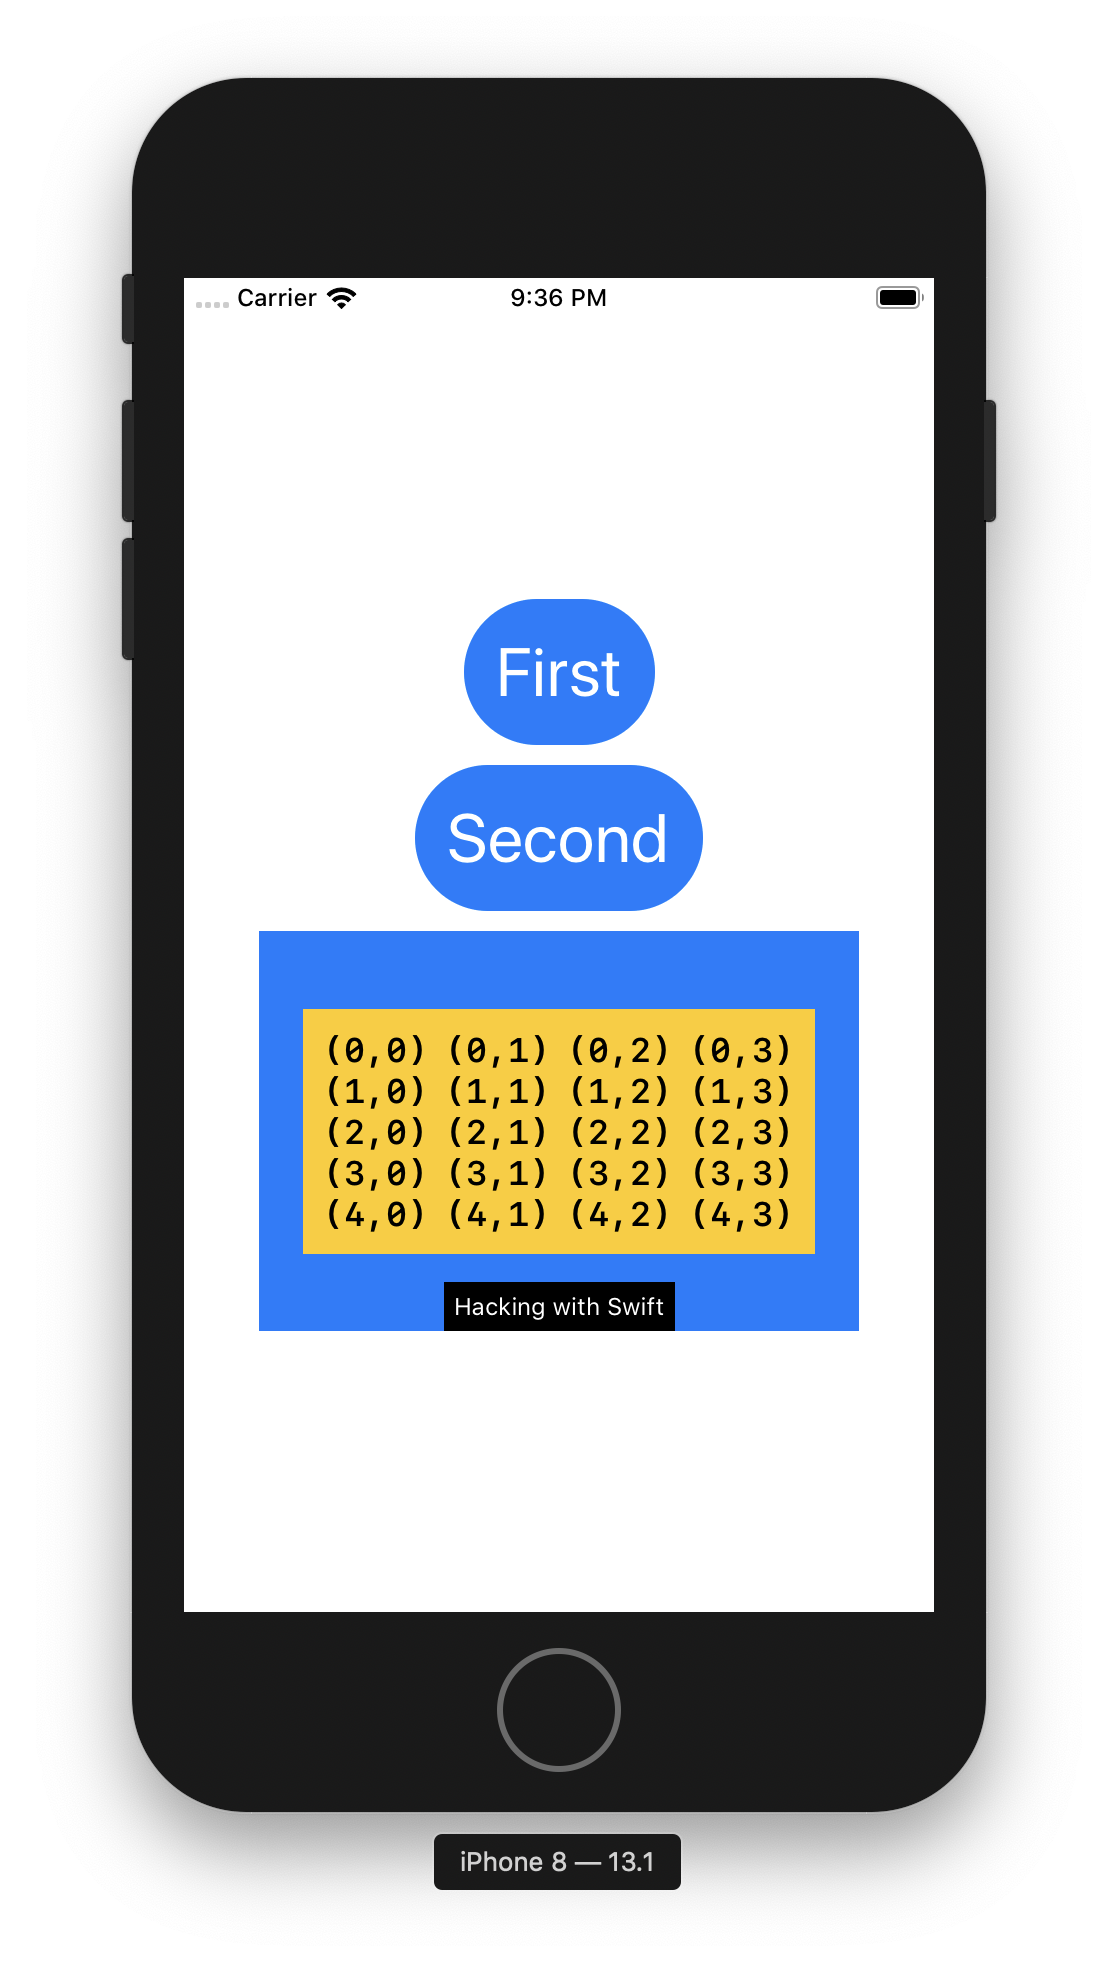
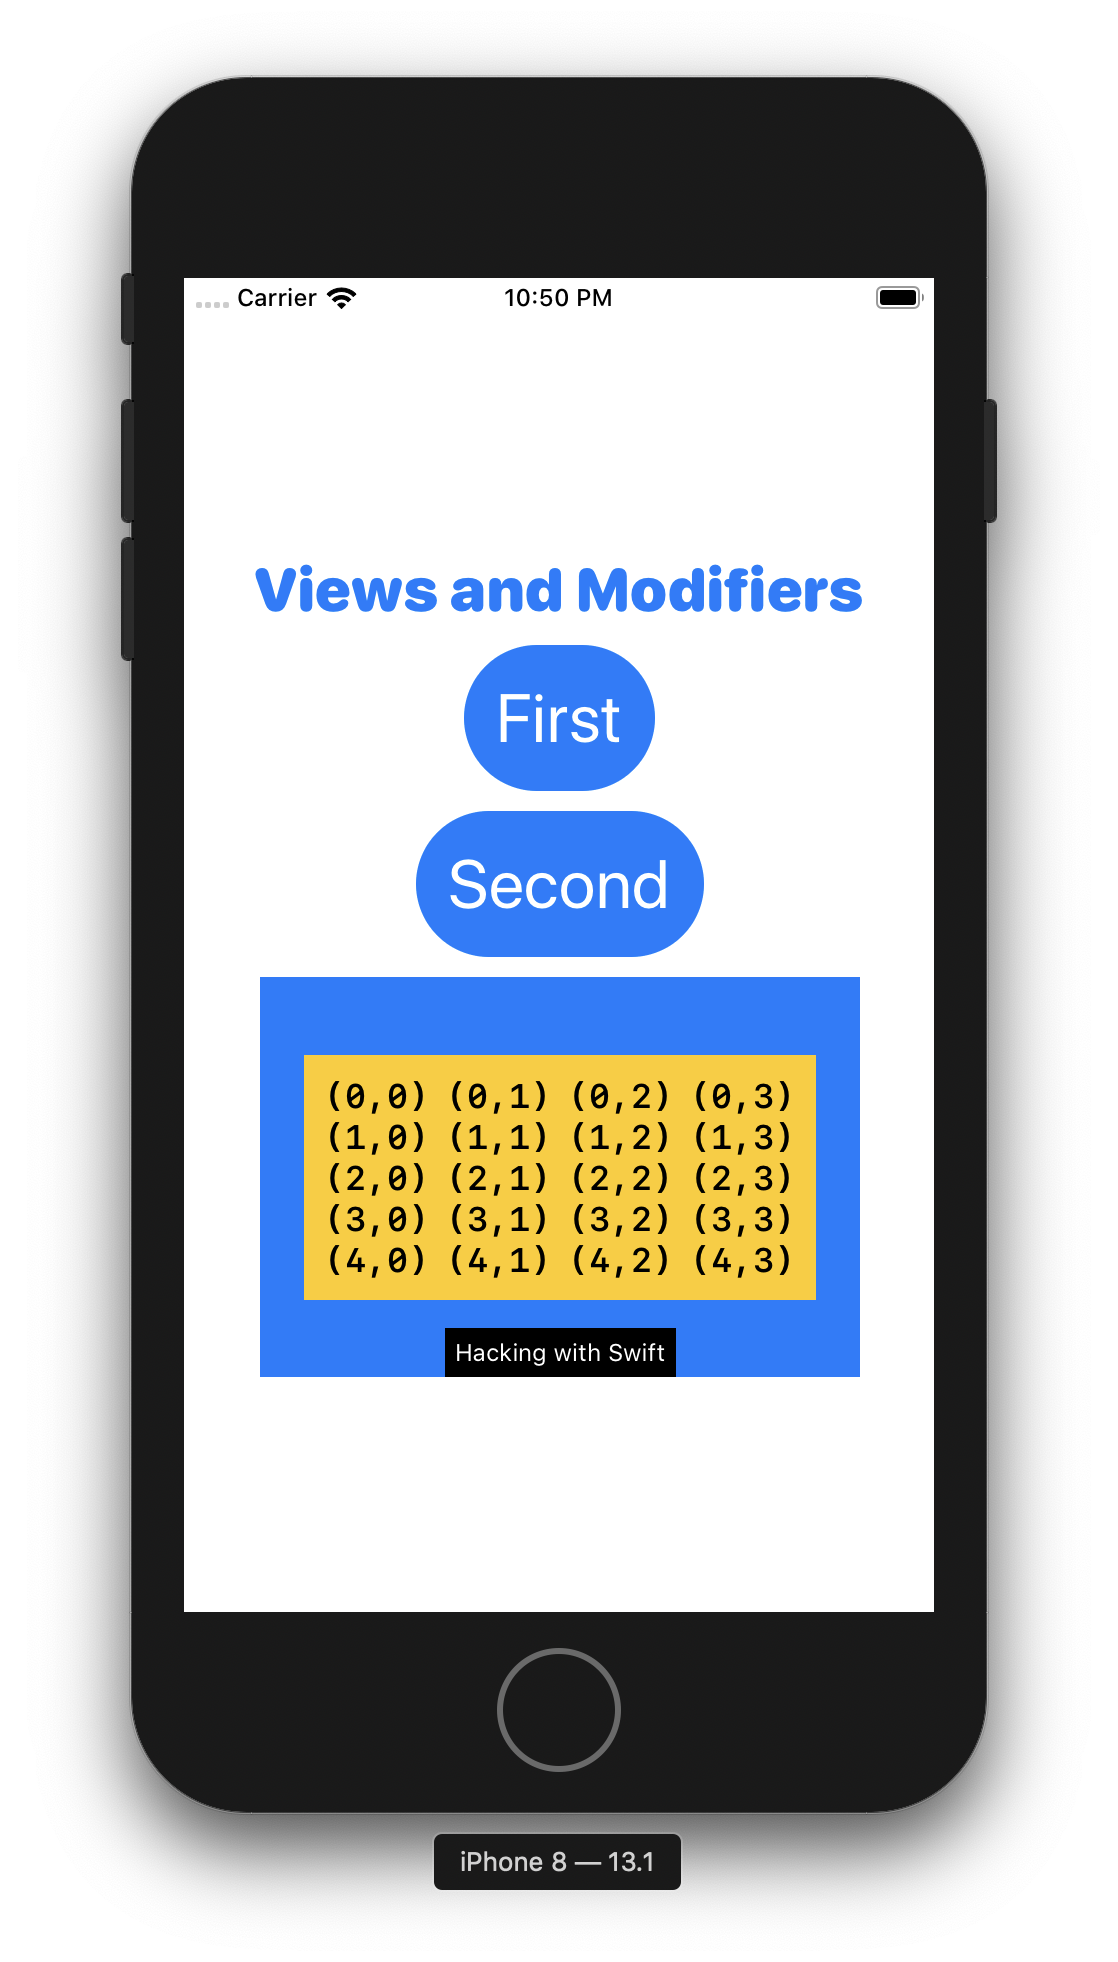
DAY-024: Add challenges for wrap-up day and update README files with solutions

Changed region(s): [[0.2129, 0.2798, 0.7907, 0.7151], [0.0912, 0.0933, 0.9123, 0.9638], [0.4562, 0.1244, 0.5474, 0.1555]]

diff --git a/GuessTheFlag/GuessTheFlag/ContentView.swift b/GuessTheFlag/GuessTheFlag/ContentView.swift
@@ -33,11 +33,7 @@ struct ContentView: View {
                     Button(action: {
                         self.flagTapped(number)
                     }, label: {
-                        Image(self.countries[number])
-                            .renderingMode(.original)
-                            .clipShape(Capsule())
-                            .overlay(Capsule().stroke(Color.black, lineWidth: 1))
-                            .shadow(color: .black, radius: 2)
+                        FlagImage(name: self.countries[number])
                     })
                 }
                 Spacer()
@@ -63,6 +59,18 @@ struct ContentView: View {
     func askQuestion() {
         countries.shuffle()
         correctAnswer = Int.random(in: 0...2)
+    }
+}
+
+struct FlagImage: View {
+    var name: String
+    
+    var body: some View {
+        Image(name)
+            .renderingMode(.original)
+            .clipShape(Capsule())
+            .overlay(Capsule().stroke(Color.primary, lineWidth: 1))
+            .shadow(color: .primary, radius: 2)
     }
 }
 

diff --git a/ViewsAndModifiers/ViewsAndModifiers/ContentView.swift b/ViewsAndModifiers/ViewsAndModifiers/ContentView.swift
@@ -12,6 +12,10 @@ struct ContentView: View {
     
     var body: some View {
         VStack(spacing: 10) {
+            
+            Text("Views and Modifiers")
+                .blueTitled()
+                
             CapsuleText(text: "First")
             CapsuleText(text: "Second")
             
@@ -68,6 +72,14 @@ struct Watermark: ViewModifier {
     }
 }
 
+struct BlueTitle: ViewModifier {
+    func body(content: Content) -> some View {
+        content
+            .font(.system(size: 30, weight: .black, design: .rounded))
+            .foregroundColor(.blue)
+    }
+}
+
 extension View {
     func titleStyle() -> some View {
         self.modifier(Title())
@@ -75,6 +87,10 @@ extension View {
     
     func watermarked(with text: String) -> some View {
         self.modifier(Watermark(text: text))
+    }
+    
+    func blueTitled() -> some View {
+        self.modifier(BlueTitle())
     }
 }
 

diff --git a/WeSplit/WeSplit/ContentView.swift b/WeSplit/WeSplit/ContentView.swift
@@ -62,6 +62,7 @@ struct ContentView: View {
                 
                 Section {
                     Text("$\(totalPerPerson, specifier: "%.2f")")
+                        .foregroundColor(tipPercentage == 4 ? .red : .primary)
                 }
             }
             .navigationBarTitle("WeSplit")

diff --git a/README.md b/README.md
@@ -1,49 +1,14 @@
 
 # 100DaysOfSwiftUI
 
-Repository made to follow 100 Days of SwiftUI.
+## Wrap-up challenge - Day 24
 
-## Days 1 - 12: Introduction to Swift
+1. Create a custom ViewModifier (and accompanying View extension) that makes a view have a large, blue font suitable for prominent titles in a view. Solution: [Views and Modifiers](ViewsAndModifiers).
 
-- [Day 1](Introduction/Day01): Simple types.
-- [Day 2](Introduction/Day02): Complex types.
-- [Day 3](Introduction/Day03): Operators and conditions.
-- [Day 4](Introduction/Day04): Loops.
-- [Day 5](Introduction/Day05): Functions.
-- Day 6: Closures, part one.
-- [Day 7](Introduction/Day07): Closures, part two.
-- Day 8: Structs, part one.
-- [Day 9](Introduction/Day09): Structs, part two.
-- [Day 10](Introduction/Day10): Classes.
-- [Day 11](Introduction/Day11): Protocols and extensions.
-- [Day 12](Introduction/Day12): Optionals, unwrapping and typecasting.
+2. Go back to [project 1](WeSplit) and use a conditional modifier to change the total amount text view to red if the user selects a 0% tip.
 
-## Days 13-15: Consolidation I
+3. Go back to [project 2](GuessTheFlag) and create a FlagImage() view that renders one flag image using the specific set of modifiers we had.
 
-- Day 13: Swift review, day one.
-- Day 14: Swift review, day two.
-- Day 15: Swift review, day three.
+## Solved challenge
 
-## Days 16-26: Starting SwiftUI
-
-- [Day 16](WeSplit): Project 1, part one.
-- [Day 17](WeSplit): Project 1, part two.
-- Day 18. Project 1, part three (**Wrap-up day**).
-- [Day 19](Challenges/Unit%20Converter). Challenge day #1.
-- [Day 20](GuessTheFlag). Project 2, part one.
-- Day 21. Project 2, part two.
-- Day 22. Project 2, part three (**Wrap-up day**).
-- [Day 23](ViewsAndModifiers). Project 3, part one.
-
-## Challenge days
-
-The projects in this section are completely started from scratch and are designed to test what I learned over the last days. My attempt at solving them will be uploaded in the [Challenges](Challenges) folder.
-
-- [Challenge 1](Challenges/Unit%20Converter). Unit conversion app.
-
-## Wrap-up challenges
-
-The solution for challenges of wrap-up days will be uploaded in separate branches to keep the projects in a state that can be used for a later review or upcoming challenges that use the same projects. To check my attempts at solving them, just checkout the branch from the following list:
-
-- Day 18: `challenge/project_one_day_18`
-- Day 22: `challenge/project_two_day_22`.
+<p align="center"><img src="./img/run-example.png"></p>

diff --git a/WeSplit/README.md b/WeSplit/README.md
@@ -3,9 +3,13 @@
 
 First project in the 100 Days of SwiftUI challenge. It consists int a check-splitting app that someone may use after eating in a restaurant - you enter the cost of the food, select how much of a tip you want to leave, and how many people you're with, and it will tell you how much each person needs to pay.
 
+## Challenge
+
+Go back to project 1 and use a conditional modifier to change the total amount text view to red if the user selects a 0% tip.
+
 ## Images
 
-<p align="center"><img src="./img/run-example.gif" height="600px"></p>
+<p align="center"><img src="./img/run-example.png" height="600px"></p>
 
 ## Notes
 

diff --git a/ViewsAndModifiers/README.md b/ViewsAndModifiers/README.md
@@ -9,6 +9,10 @@ Technique project to explore certain SwiftUI features in depth - looking at how 
 - Structs
 - Opaque return types (`some Type`)
 
+## Challenge
+
+Create a custom ViewModifier (and accompanying View extension) that makes a view have a large, blue font suitable for prominent titles in a view. Solution: Views and Modifiers.
+
 ## Images
 
 <p align="center"><img src="./img/run-example.png" height="600px"></p>

diff --git a/GuessTheFlag/README.md b/GuessTheFlag/README.md
@@ -7,6 +7,12 @@ Guessing game that helps user learn some of the many flags of the world.
 
 - `VStack`, `HStack`, `ZStack`
 
+## Challenge
+
+Go back to project 2 and create a `FlagImage` view that renders one flag image using the specific set of modifiers we had.
+
+
+
 ## Images
 
 <p align="center"><img src="./img/run-example.gif" height="600px"></p>
